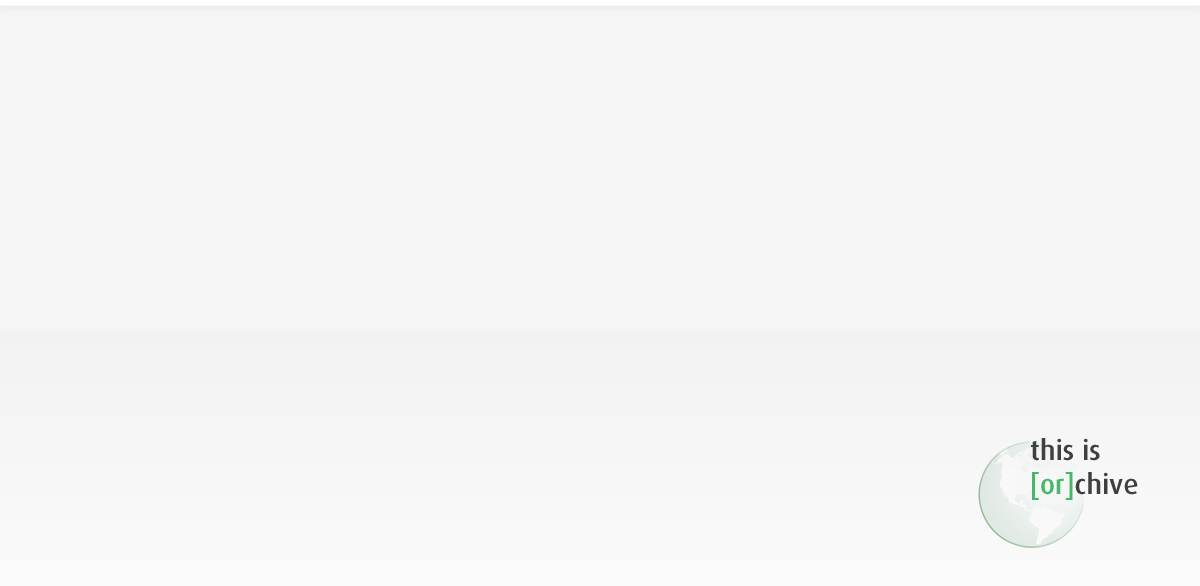
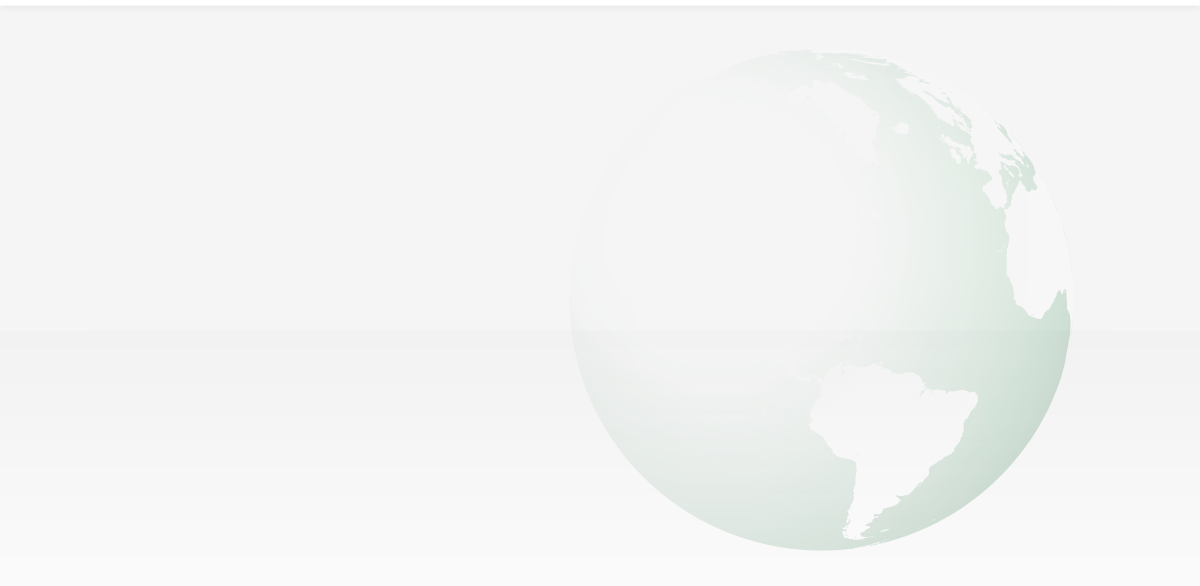
Updated beta pages

diff --git a/public/stylesheets/beta.css b/public/stylesheets/beta.css
@@ -1,3 +1,6 @@
+#beta #main {
+	background-image:url('/images/background_betaPages.png');
+}
 #beta header {
 	padding:20px 0 20px 0;
 	width:1200px;

diff --git a/config/routes.rb b/config/routes.rb
@@ -54,7 +54,7 @@ OrchiveApp::Application.routes.draw do
 
   # You can have the root of your site routed with "root"
   # just remember to delete public/index.html.
-  root :to => "Beta_Pages#Home"
+  root :to => "Beta_Pages#home"
   
   # See how all your routes lay out with "rake routes"
 
